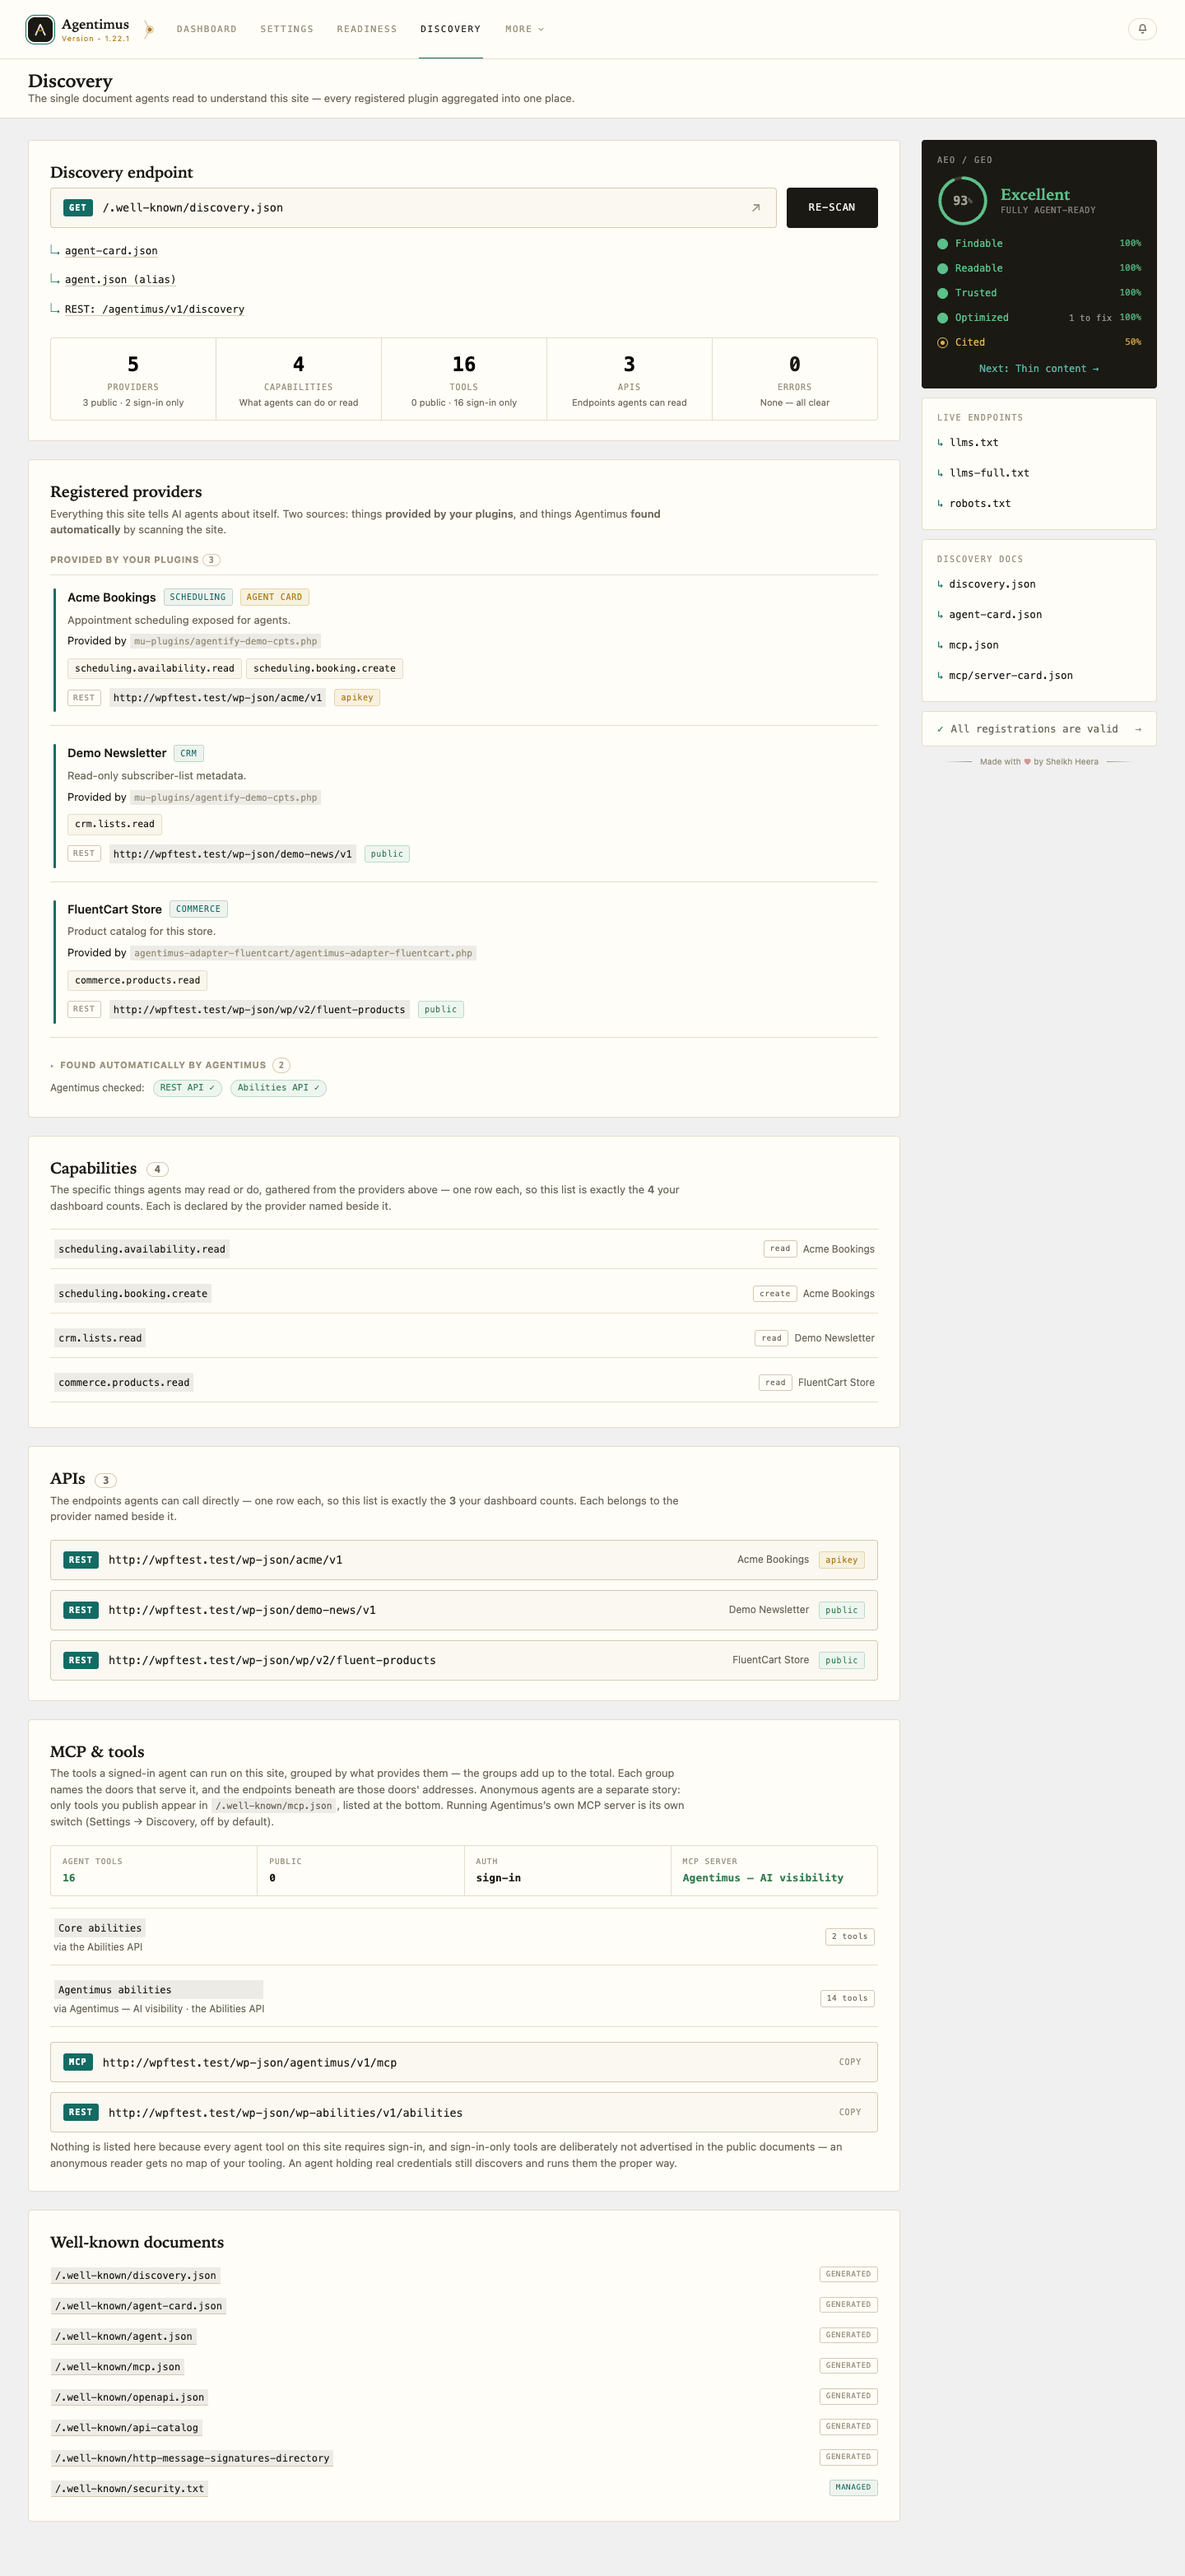
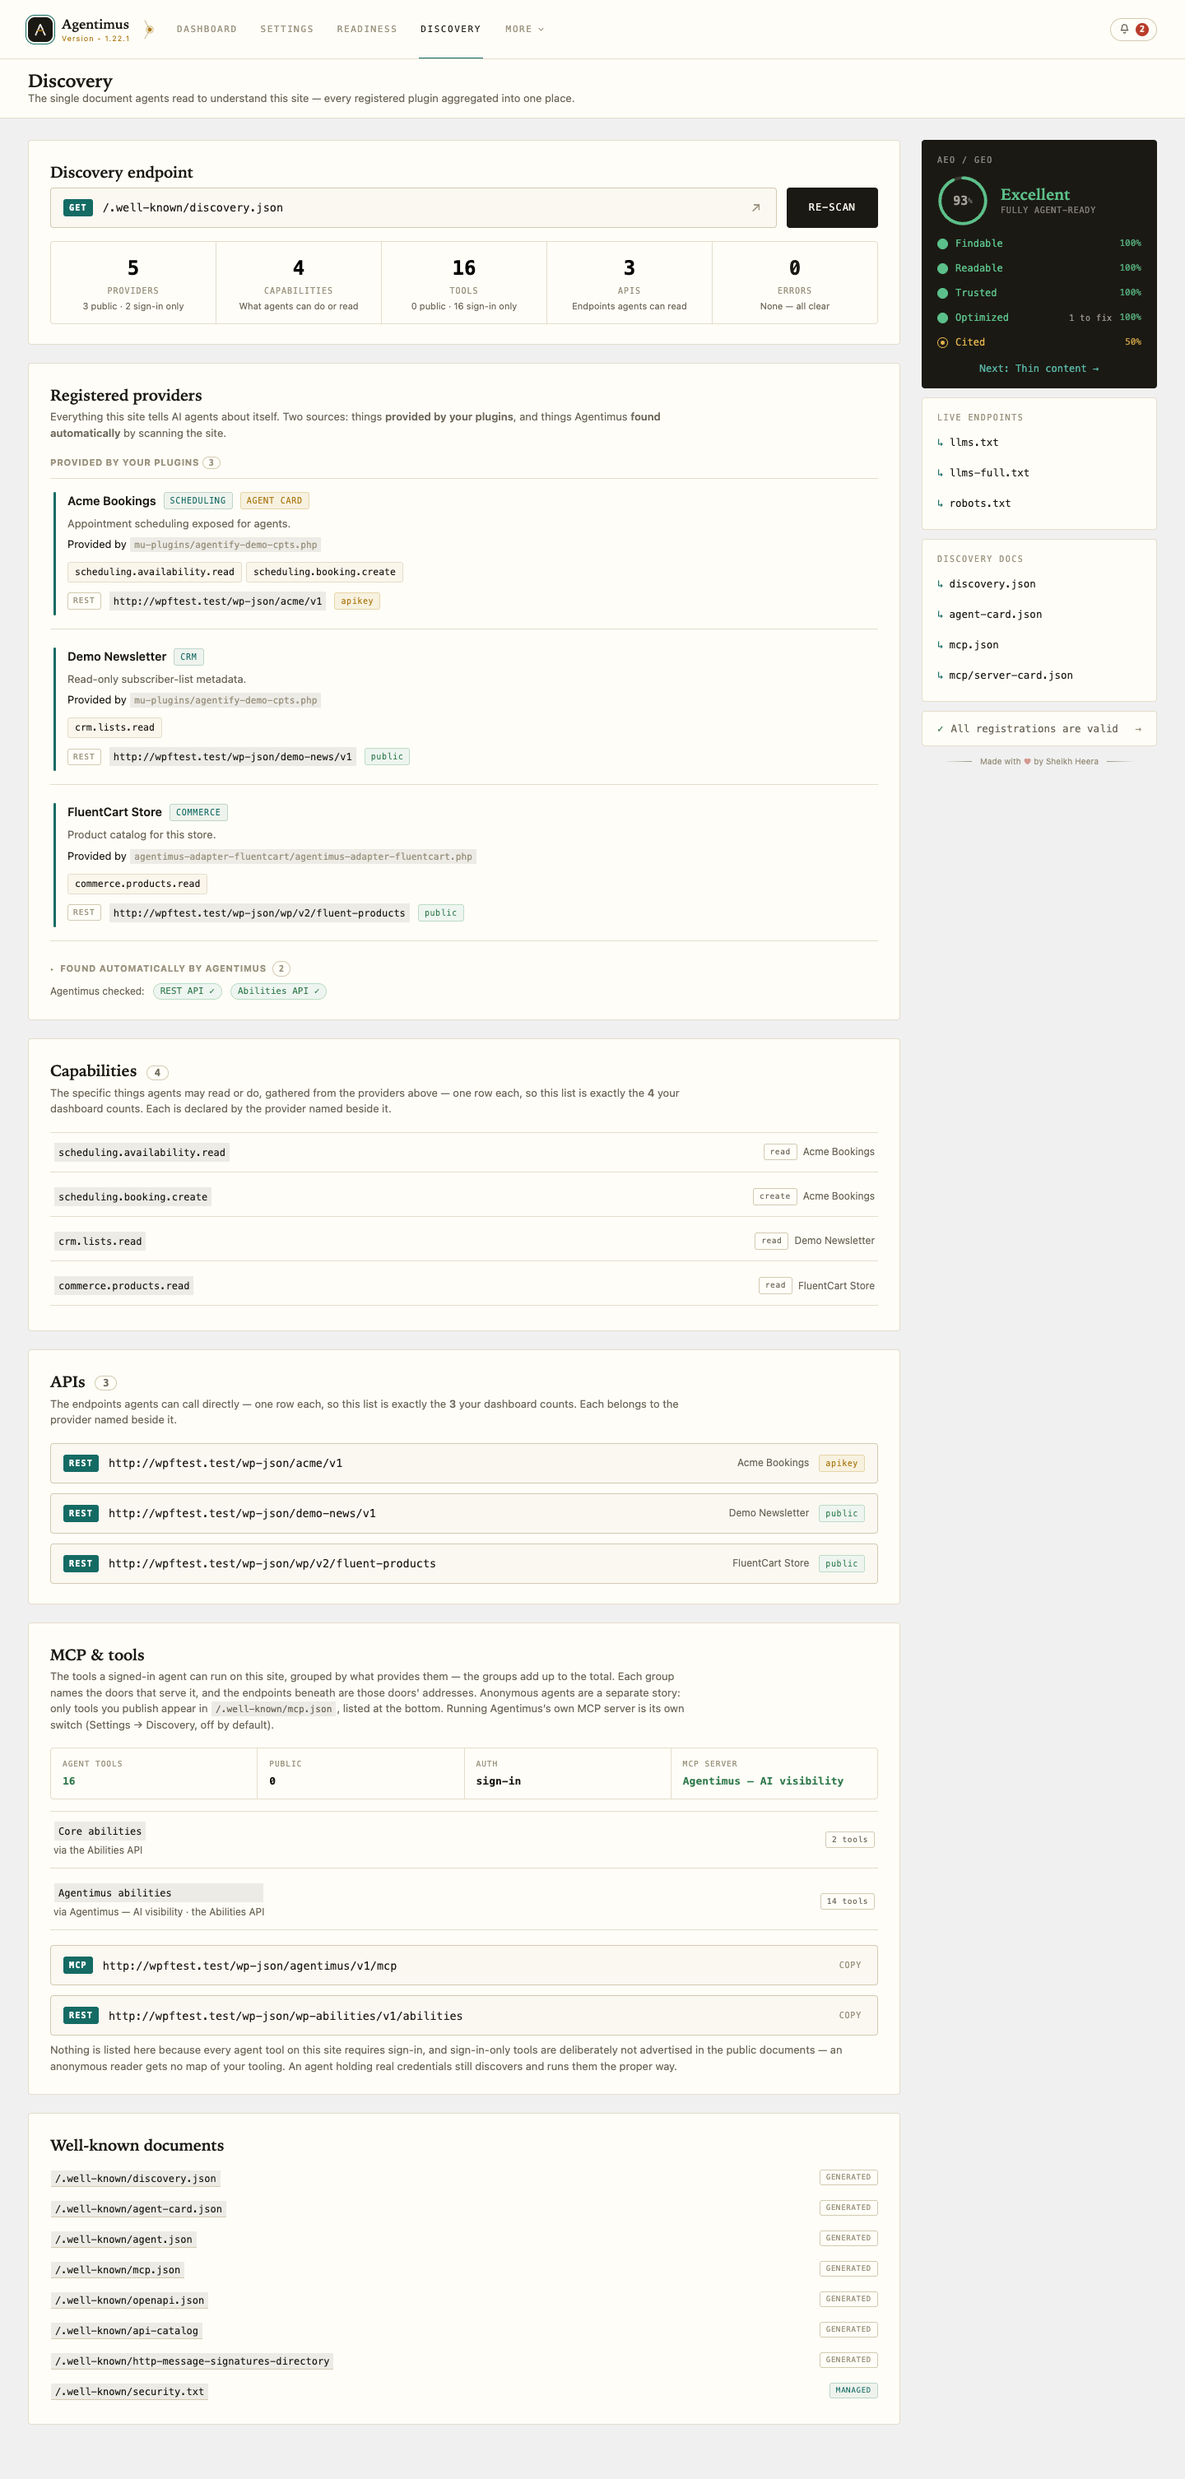
release: 1.22.2 — polish fixes + readme within WordPress.org limits
Ships the four post-1.22.1 fixes (jump-to-section offset, MCP-status console
401, Discovery de-dup, AI-Visibility rationale note) and corrects the readme
truncation WordPress.org flagged on the 1.22.1 import: the repositioning pushed
the Description past 2,500 words and the Short Description past 150 chars, so
both were cut on the listing. Trimmed the redundant second telling of the MCP
write story in the Description intro + two verbose bullets (Description 2543 ->
2421); short description condensed to 145 chars. Re-shot the Discovery
screenshot (the endpoint card's removed sub-links). Version bump x3, changelog
+ Upgrade Notice.

diff --git a/agentimus.php b/agentimus.php
@@ -3,7 +3,7 @@
  * Plugin Name:       Agentimus
  * Plugin URI:        https://github.com/heera/agentimus
  * Description:       Make your site agent-ready (llms.txt, markdown, JSON-LD, a /.well-known discovery document, AI-crawl controls, agent-activity log) AND let the AI tools you use operate it over MCP — read your data and, opt-in, draft/edit/publish posts. Lightweight, no SEO bloat.
- * Version:           1.22.1
+ * Version:           1.22.2
  * Requires at least: 6.0
  * Requires PHP:      7.4
  * Author:            Sheikh Heera
@@ -19,7 +19,7 @@ namespace Agentimus;
 
 defined( 'ABSPATH' ) || exit;
 
-define( 'AGENTIMUS_VERSION', '1.22.1' );
+define( 'AGENTIMUS_VERSION', '1.22.2' );
 define( 'AGENTIMUS_FILE', __FILE__ );
 define( 'AGENTIMUS_DIR', plugin_dir_path( __FILE__ ) );
 define( 'AGENTIMUS_URL', plugin_dir_url( __FILE__ ) );

diff --git a/CHANGELOG.md b/CHANGELOG.md
@@ -2,6 +2,13 @@
 
 All notable changes to Agentimus. The most recent releases also appear in the plugin's `readme.txt` and on the WordPress.org listing; the complete history lives here.
 
+## 1.22.2
+* Fixed — **Jump-to-section lands below the sticky header.** The Discovery summary tiles (and every `goTo` jump — readiness rungs, dashboard tiles) used `scrollIntoView({block:'start'})`, which tucked the target section's heading under the pinned header (admin bar + the two header strips). Now the jump measures `.ar__sticky`'s rendered bottom at click time and `window.scrollTo`s to just below it (+12px) — correct on mobile too, where the nav wraps taller.
+* Fixed — **MCP status probe no longer logs a console 401.** `SettingsForm.probeMcpStatus()` GET the MCP endpoint with `credentials:'omit'`; the endpoint correctly answers 401, which Chrome logs as a red error on every admin load (the panel is mounted hidden, so it fired everywhere). Replaced with an authenticated `agentimus/v1/mcp-status` route (nonce → clean 200) backed by `McpSurface::agentimus_server_live()` (is our MCP route registered?).
+* Improved — **Discovery screen stops triple-listing the discovery docs.** The "Discovery endpoint" card dropped its alt-doc link list (agent-card.json / agent.json alias / REST discovery); the always-visible rail (global shortcuts) and the "Well-known documents" section (full inventory + generated/managed status) each keep a distinct role, so agent-card.json / discovery.json no longer appear three times on one screen.
+* Improved — **AI Visibility documents why it uses its own providers.** An inline note in the AI-engines settings card (and an expanded docs section) explains the intrinsic reason — a visibility check is graded on the sources each engine *cited* and compares several engines at once, neither of which WordPress's shared AI connector surfaces — framing older-WP support as the byproduct, not the justification.
+* Housekeeping — **readme length within WordPress.org limits.** The 1.22.1 repositioning pushed the Description over 2,500 words and the Short Description over 150 characters, so WordPress.org truncated both on the listing. Trimmed the redundant second telling of the MCP write story in the Description intro and tightened two verbose bullets; short description condensed to 145 characters. No feature text lost.
+
 ## 1.22.1
 * New — **The write tier.** Five write abilities — `agentimus/create-content`, `update-content`, `write-description`, `write-topics` (`Abilities\ContentWriter`) and `apply-fix` (`Abilities\Fixer`) — behind a three-switch trust ladder: `enable_mcp_server` → `enable_agent_writes` → `agent_writes_publish`, each off by default. `enable_agent_writes` gates *registration*, not just MCP exposure: off, the write abilities exist on no surface (MCP, abilities REST, discovery), so read-only stays literally true. `Settings::sanitize()` cascades each rung off with its parent (writes require the server; publish requires writes), so a stored settings write can never leave a child switch armed alone. Every write authenticates as the key's WordPress user and re-checks core capabilities at run time: the post type's `create_posts` for create (not `edit_posts`), `edit_post` on the specific post for update, `publish_posts` plus the ladder for `status=publish` — new publishes only; editing an already-published post deliberately follows the user's own `edit_post` (that's the check-page → fix loop, documented in the toggle copy). `apply-fix` is a closed vocabulary that enacts a readiness check's own remediation and only ever *enables* plugin features — it never touches `blog_public` (going public is the owner's privacy decision; both that and the hidden-site robots/sitemap branch are manual), and content/judgement/server fixes refuse with the manual next step; its read-modify-write starts from the stored option, never the filtered runtime view, and a no-op flip returns `applied: false` ("switch already on") instead of a fake success. `update-content` declares `destructiveHint: true` (a CPT without revision support keeps no undo). Write abilities carry an explicit non-readonly annotation that discovery honours — no heuristic guessing. The MCP server's self-description now says "read" or "read + write" to match the ladder.
 * New — **Full post dressing.** create/update also take `categories`/`tags` (by NAME, replace semantics, `[]` clears; free-form tag creation with the assign capability, new categories require manage — core's hierarchical/non-hierarchical distinction, wp-admin parity) and `featured_image`: an existing attachment ID or an http(s) image URL sideloaded via `media_sideload_image()` — gated on `upload_files`, honouring the site's file-type and size rules, with `featured_image_alt`, `''` to remove, and imports auto-attached to the post. Responses report the resulting categories, tags and featured image.
